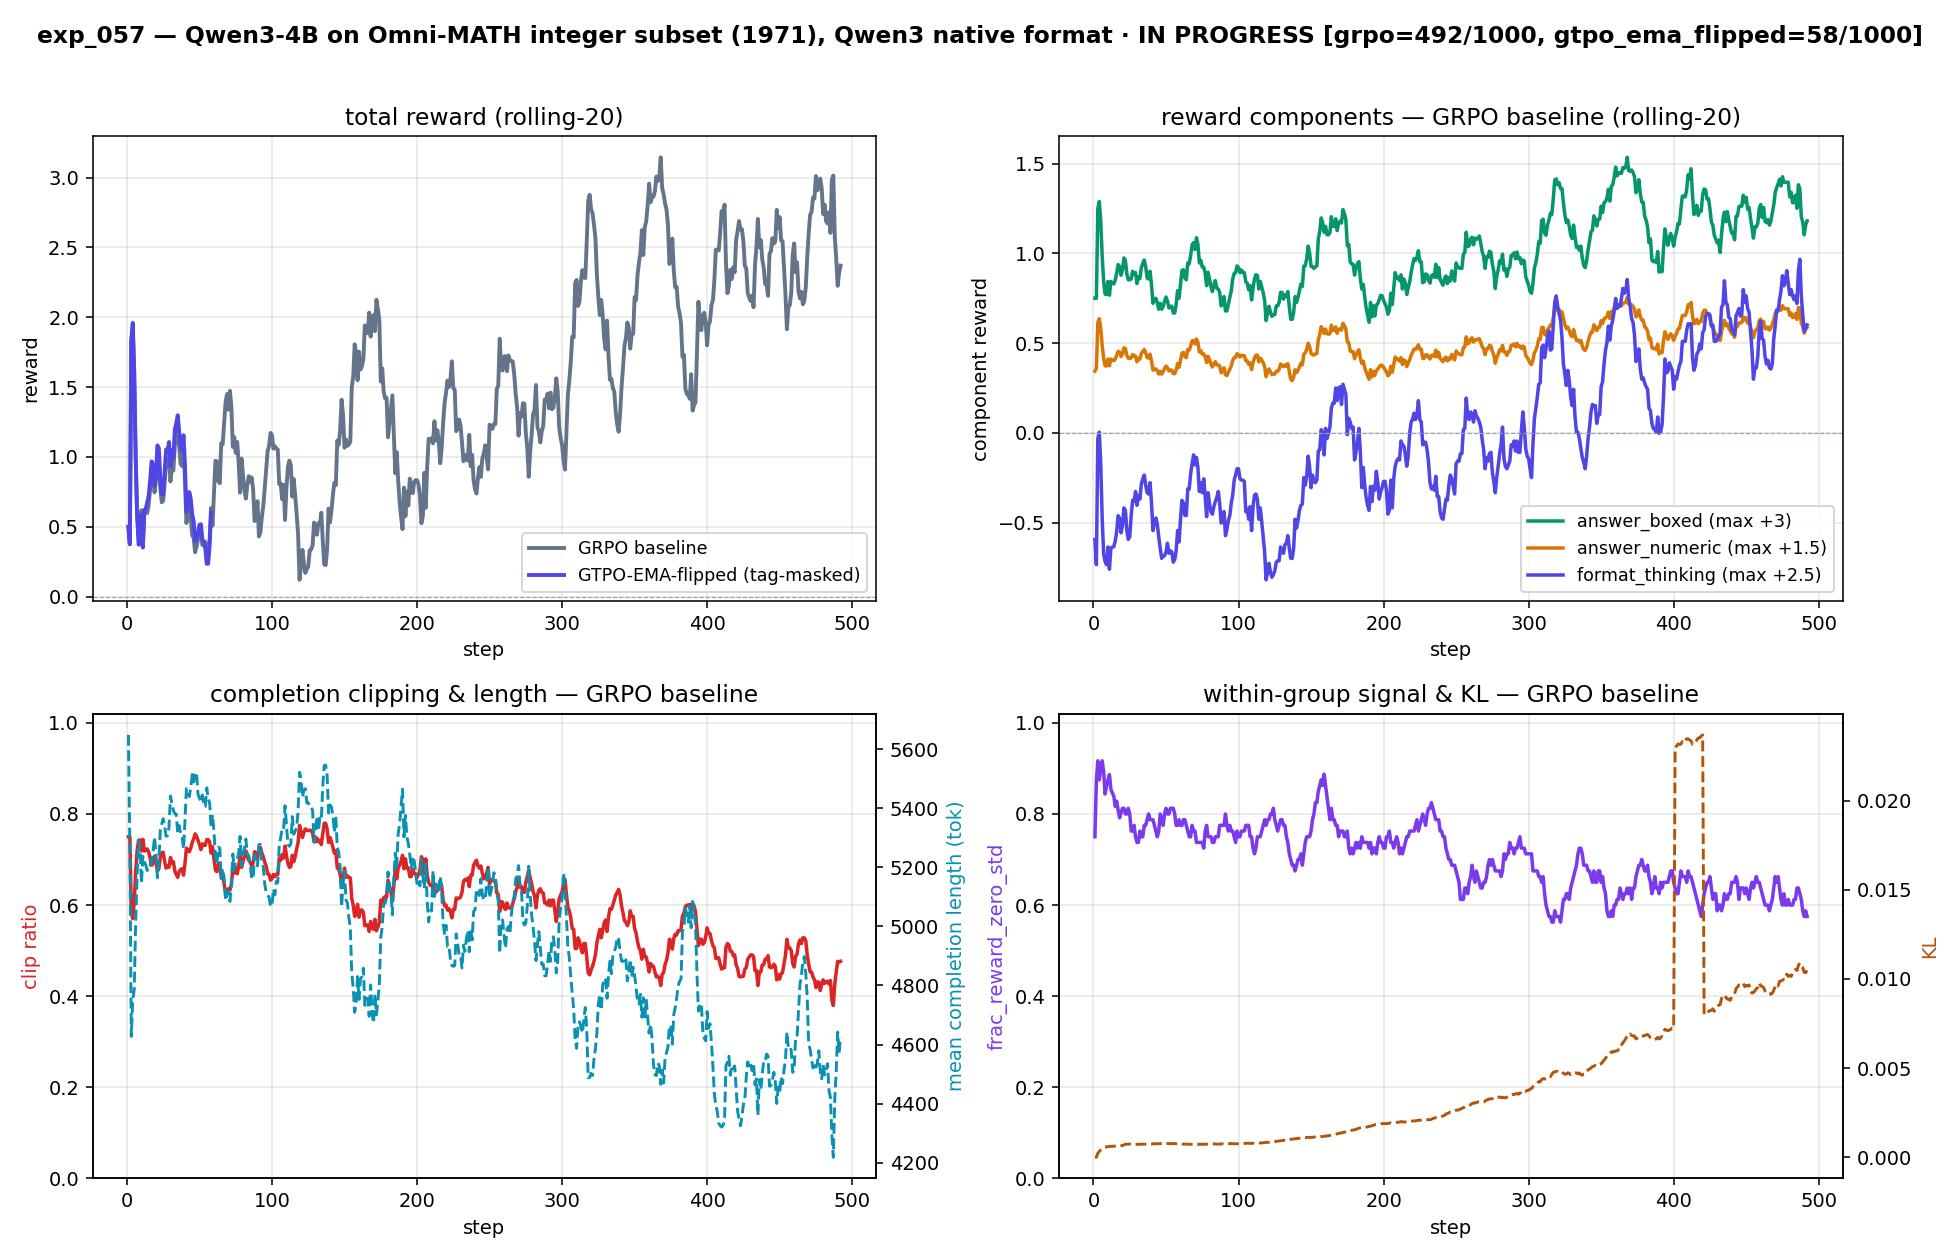
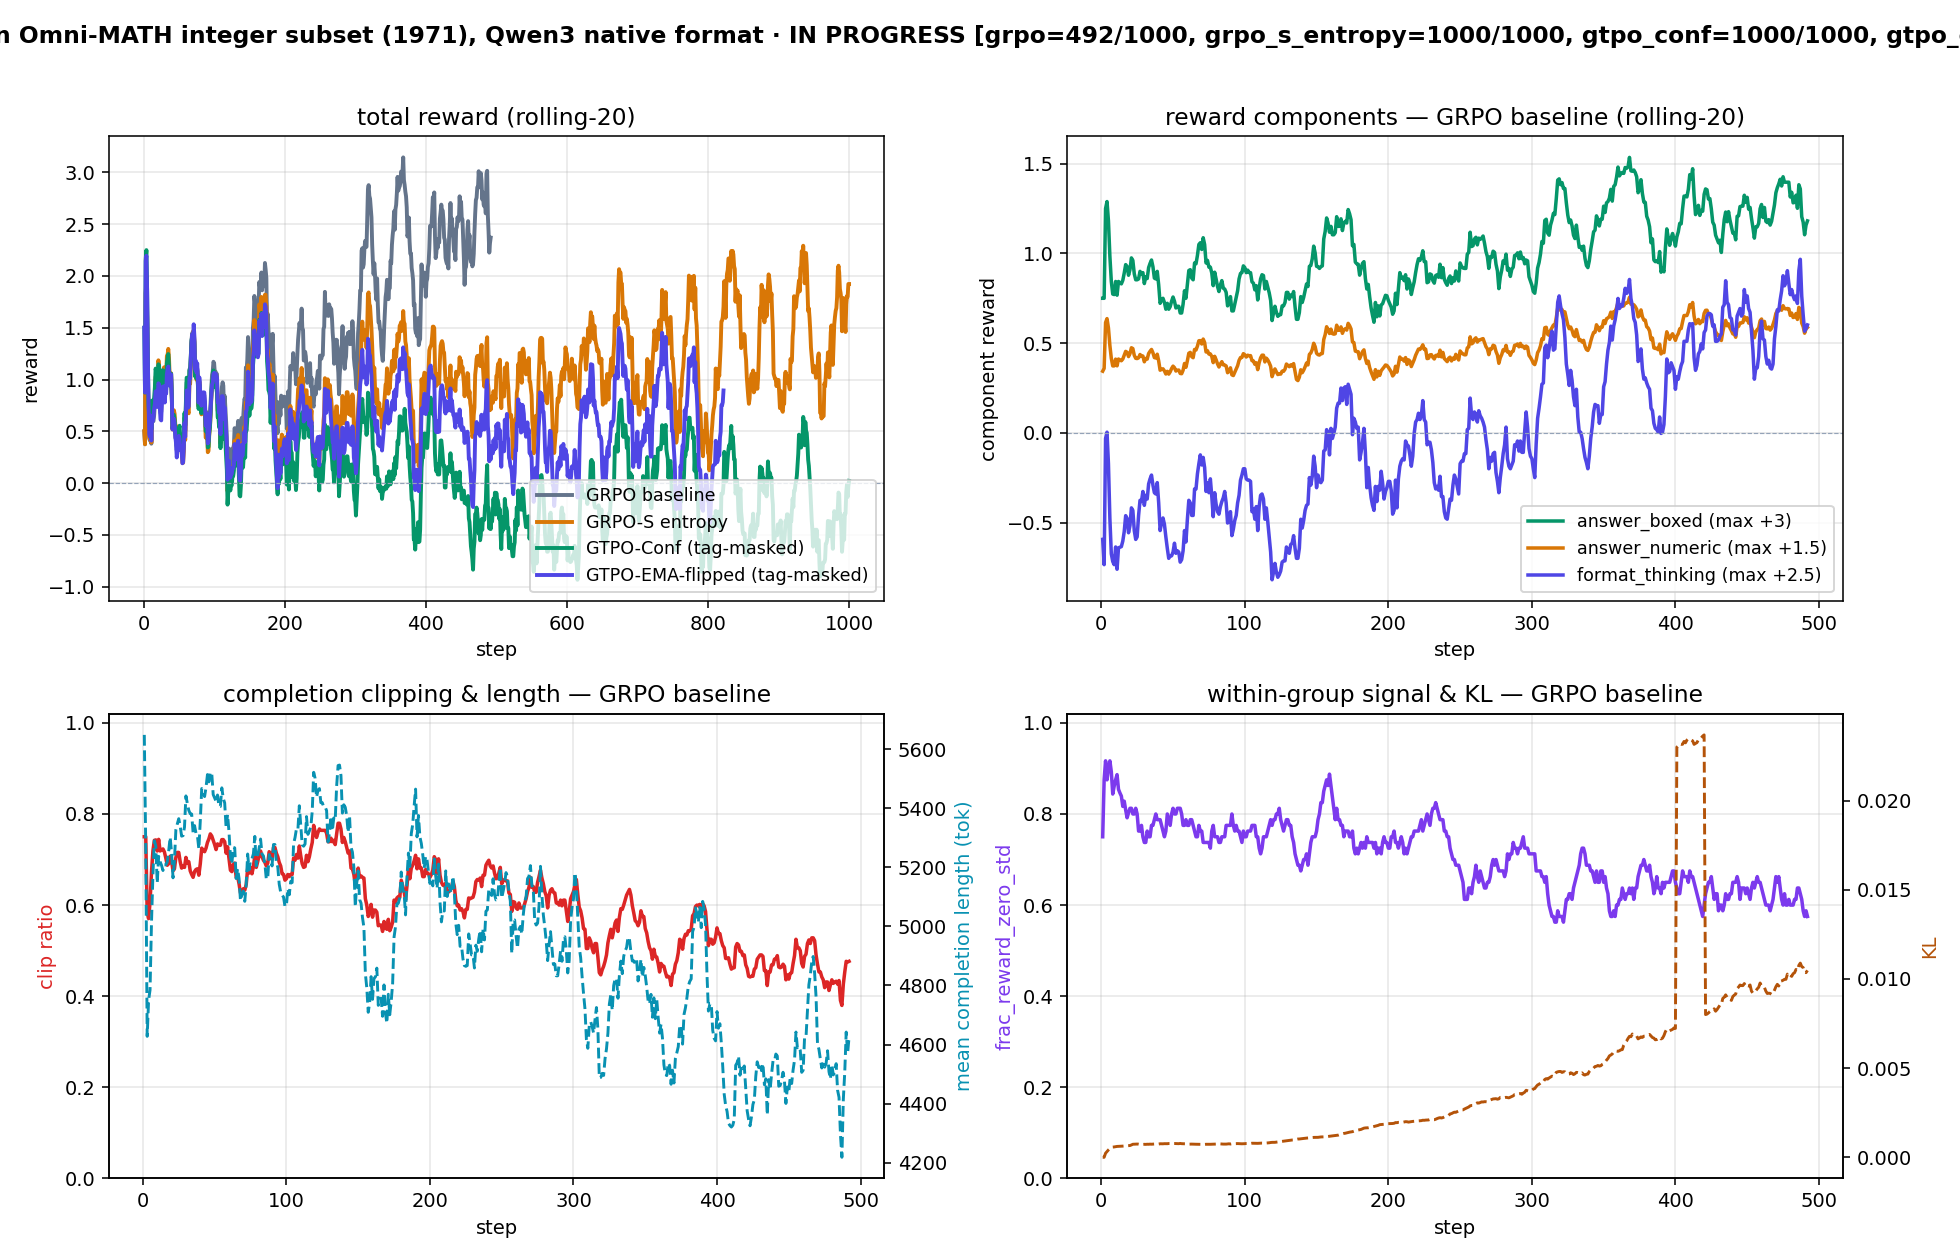
exp_057: tag mask was incomplete — add \boxed{ and } (multi-token answer-format delimiters)
The mask only covered the single-token <think>/</think>/im tags. But
reward_answer_boxed trains \boxed{N}, and \boxed{ tokenizes to 3 tokens
['\','boxed','{'] (+ '}') which were NOT masked -> per-token shaping distorted
the answer-format control tokens (the exact failure mode the mask prevents).
build_tag_mask already handles multi-token substrings; answer digits stay shaped.

Only affects gtpo_conf / gtpo_ema_flipped (per-token, use the mask). The
preliminary 'shaping underperforms' result is now flagged mask-confounded in
README pending a re-run of those two with the corrected mask. grpo / grpo_s
unaffected. Final 4-method results table + plot recorded (shaping verified live).

diff --git a/experiments/exp_057_qwen3_native_omnimath_int_4way/train.py b/experiments/exp_057_qwen3_native_omnimath_int_4way/train.py
@@ -404,18 +404,24 @@ def main():
 
     # Build format-tag token-id patterns once.
     #
-    # exp_055 uses ONLY Qwen3 native structural tokens. No custom format tags.
-    # Mask covers 4 substrings — all of which Qwen3 tokenises as single
-    # special token ids (so the mask is one-token-precise):
-    #   - <think>, </think>    : thinking-mode protocol (151667 / 151668)
-    #   - <|im_start|>, <|im_end|>: ChatML role boundaries
-    # These are the tokens where the model is extremely peaked; without
-    # masking, per-token shaping concentrates bonus/penalty on them and
-    # distorts the gradient that should be teaching content reasoning.
+    # These are the structural/format substrings the model becomes extremely
+    # peaked on AND that the reward functions key on; per-token shaping must NOT
+    # rewrite the gradient there (it gets reverted to the seq-level GRPO adv).
+    #   - <think>, </think>        : thinking protocol — single token ids (151667/151668)
+    #   - <|im_start|>, <|im_end|> : ChatML role boundaries — single token ids
+    #   - \boxed{ , }              : answer-format delimiters that reward_answer_boxed
+    #                                rewards. NOTE these are MULTI-token substrings
+    #                                (\boxed{ -> ['\\','boxed','{'] = [59,79075,90]),
+    #                                so build_tag_mask masks the whole id-subsequence
+    #                                window. exp_055/057-v1 OMITTED these, so the
+    #                                shaping was distorting the \boxed control tokens
+    #                                (the exact failure mode the mask is meant to
+    #                                prevent). The digits inside \boxed{N} stay shaped
+    #                                (they are the model's actual answer = content).
     from src.format_tag_mask import encode_tag_patterns
     format_tag_patterns = encode_tag_patterns(
         tokenizer,
-        ["<think>", "</think>", "<|im_start|>", "<|im_end|>"],
+        ["<think>", "</think>", "<|im_start|>", "<|im_end|>", "\\boxed{", "}"],
     )
     print(f"[tagmask] {len(format_tag_patterns)} format-tag patterns:")
     for pat in format_tag_patterns:

diff --git a/experiments/exp_057_qwen3_native_omnimath_int_4way/README.md b/experiments/exp_057_qwen3_native_omnimath_int_4way/README.md
@@ -162,31 +162,61 @@ cd experiments/exp_057_qwen3_native_omnimath_int_4way
 python train.py --method {grpo|grpo_s_entropy|gtpo_conf|gtpo_ema_flipped}
 ```
 
-## Results
+## Results (corrected — shaping actually applied)
 
-_In progress — last-50-step averages (same columns as exp_055). Methods stopped
-early once a reward plateau is visible (stop-early workflow). Snapshot plot:
-`figures/exp057_progress.png`._
+Last-50-step averages. The shaping bug (see above) is fixed; every shaped run
+below logs its `<method>/*` metrics (shaping confirmed live, grad flowing).
+Methods stopped at a visible reward plateau. `grpo` is the shared baseline (its
+path is unaffected by the fix, reused from its @492 run). Plot:
+`figures/exp057_progress.png`.
 
-⚠ **The "shaped" rows below are INVALID — they ran plain GRPO** (see the critical
-finding above). Kept only to document what was observed.
-
-| method | steps | reward L50 | answer_boxed L50 | answer_numeric L50 | format_thinking L50 | KL | clip% | shaping actually applied? |
+| method | steps | reward L50 | boxed L50 | numeric L50 | format L50 | KL | clip% | Δreward vs grpo |
 |---|---|---|---|---|---|---|---|---|
-| grpo (baseline)        | 492 (stopped) | +2.56 | +1.27 | +0.63 | +0.65 | 0.010 | 46% | n/a |
-| gtpo_ema_flipped       | 921 (stopped) | +2.89 | +1.31 | +0.66 | +0.92 | 0.015 | 40% | **NO — was plain GRPO** |
-| grpo_s_entropy         | — | — | — | — | — | — | — | (not run) |
-| gtpo_conf (tag-masked) | — | — | — | — | — | — | — | (not run) |
+| **grpo** (baseline)         | 492  | **+2.56** | +1.27 | +0.63 | +0.65 | 0.010 | 46% | — |
+| grpo_s_entropy              | 1000 | +1.63 | +1.09 | +0.53 | +0.02 | 0.002 | 60% | **−0.93** |
+| gtpo_ema_flipped (tagmask)  | 822  | +0.36 | +0.70 | +0.34 | −0.68 | 0.005 | 74% | **−2.20** |
+| gtpo_conf (tagmask)         | 1000 | −0.17 | +0.56 | +0.27 | −1.00 | 0.021 | 80% | **−2.73** |
 
-**grpo baseline (492 steps):** reward climbs +0.64 (first 50) → +2.56 (last 50),
-peak rolling-20 +3.15 @ step 368. Far from the ~+7 ceiling — **non-saturated**,
-the opposite of exp_055. Over training: format_thinking −0.55 → +0.65 (model
-learns to close `<think>`), clip 72% → 46%, mean completion 5380 → 4575 tok,
-`frac_reward_zero_std` 0.80 → 0.60. The dataset premise (non-saturated baseline
-with headroom) holds — but the shaped-vs-baseline question is **unanswered**
-until the `_compute_loss` rewrite lands, because the shaped run was plain GRPO.
-Step-matched, gtpo_ema_flipped (=GRPO run 2) and grpo tracked within noise
-(corr-level identical), exactly as expected for two GRPO runs from the same seed.
+> ⚠ **CONFOUND found 2026-06-16 (mask was incomplete) — these shaped numbers
+> are not final.** The tag mask only covered the single-token tags `<think>`,
+> `</think>`, `<|im_start|>`, `<|im_end|>`. But `reward_answer_boxed` trains the
+> model on `\boxed{N}`, and `\boxed{` tokenizes to a **3-token substring**
+> `['\\','boxed','{']` (+ `}`) — which was **NOT masked**, so the per-token
+> shaping distorted exactly those answer-format control tokens (the failure mode
+> the mask exists to prevent). Fixed in `train.py` (mask now includes `\boxed{`
+> and `}`; `build_tag_mask` already handles multi-token substrings; the answer
+> digits stay shaped as content). **gtpo_conf / gtpo_ema_flipped need a re-run
+> with the corrected mask** before the negative is final. `grpo` (no shaping)
+> and `grpo_s_entropy` (seq-level, mask is a no-op) are unaffected.
+
+**Headline (PRELIMINARY, mask-confounded): with the per-token / entropy shaping
+applied, every shaped method UNDERPERFORMED the plain-GRPO baseline on
+Qwen3-4B / Omni-MATH** — from a mild lag (grpo_s_entropy) to active degradation
+(gtpo_conf: reward climbs to +0.9 early then collapses to −0.27; loses format,
+clip 0.69→0.84). grpo alone climbs cleanly +0.64→+2.56. Step-matched over
+1..492 the ranking is identical (grpo +1.54 ≫ grpo_s +0.85 > gtpo_ema +0.66 >
+gtpo_conf +0.36).
+
+**Why** — consistent with the design caveat (item 4 above): `_znorm_over_active`
+makes the per-token shaped advantage zero-mean per polarity and ~uncorrelated
+(corr ≈ 0.05) with the GRPO seq-advantage, so the shaping injects a
+reward-misaligned gradient that drags the policy off the reward signal (and on
+no-signal steps, where plain GRPO is silent, the shaping still pushes on
+confidence — visible as `grad_norm ≈ 0.05` vs grpo's ≈ 5e-6).
+
+**This recontextualizes the shaping arc.** The earlier "shaping helps" results
+(exp_050 win, exp_055 null, etc.) were produced on this unsloth stack where the
+shaping was silently bypassed — i.e. plain GRPO. exp_055's "all 4 within ±0.13"
+is exactly 4× identical GRPO. The whole exp_049→056 arc should be re-audited the
+same way (check logs for `<method>/*` metrics). See `SHAPING_BYPASS_BUGFIX.md`.
+
+Caveat: intermittent KL spikes (178 @ grpo_s step763, 396 @ gtpo_conf ~step450;
+none in gtpo_ema) — RL instability from the reward-misaligned signal, not a
+systemic fix bug (degradation is gradual and systemic, not spike-driven).
+
+**grpo baseline (492 steps):** reward +0.64 → +2.56, peak rolling-20 +3.15 @ 368;
+non-saturated (ceiling ~+7) — the headroom exp_055 lacked. So the dataset premise
+held; the answer is just that shaping doesn't exploit the headroom — it hurts.
 
 ## Files
 
